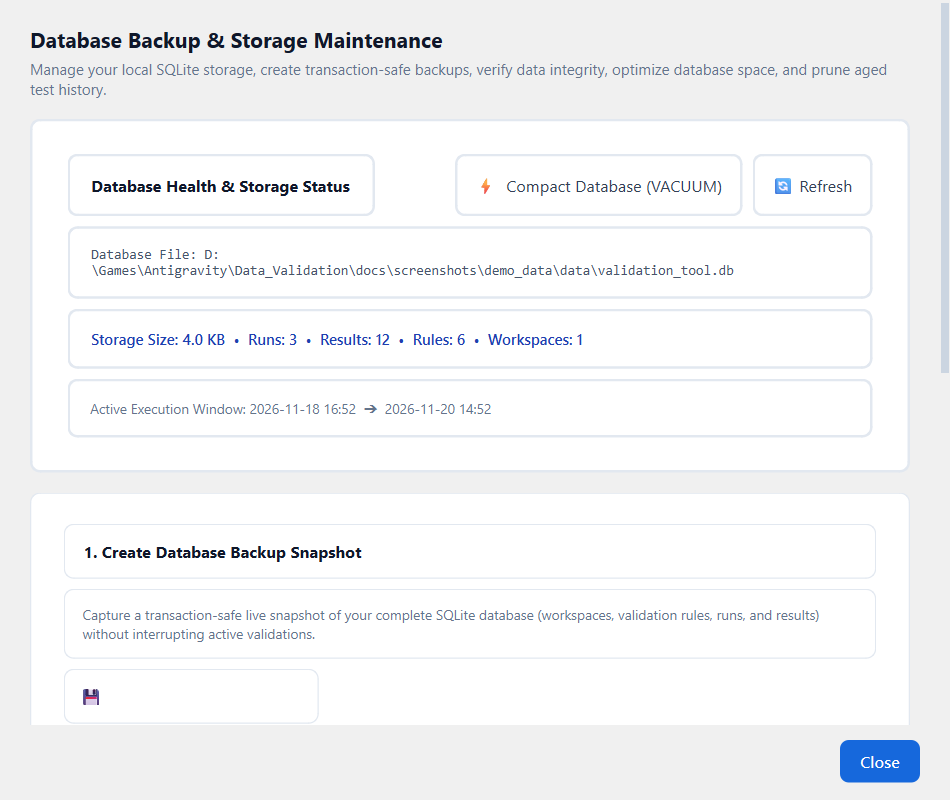
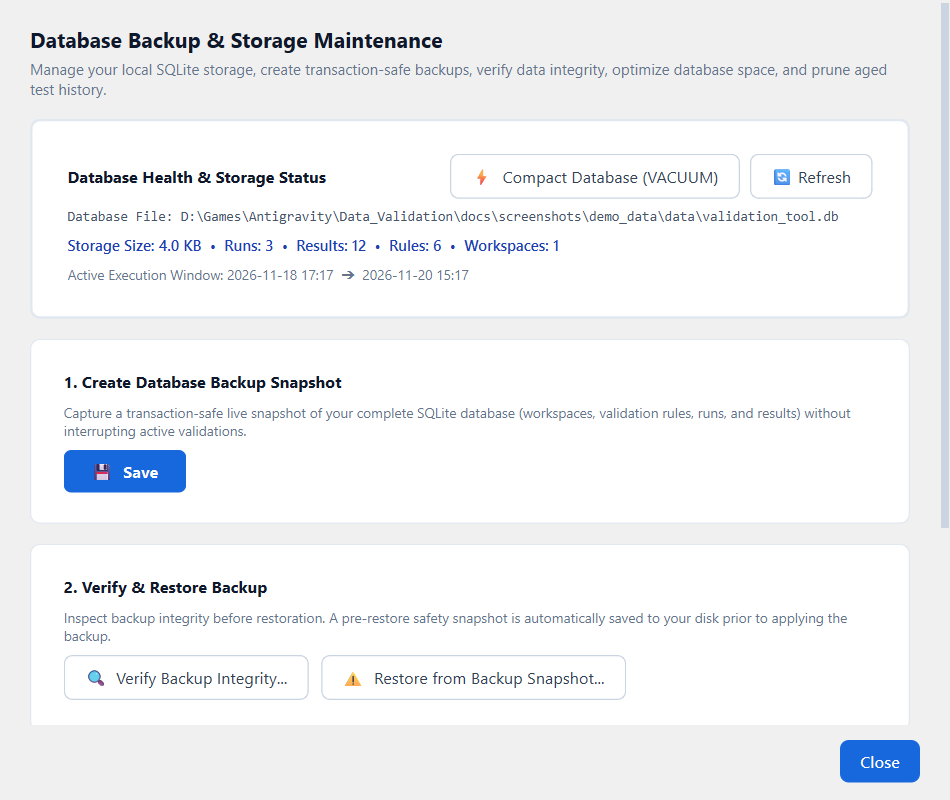
fix(ui): update backup snapshot button to bold Save text and fix card stylesheet cascading

diff --git a/app/ui/dialogs/backup_maintenance_dialog.py b/app/ui/dialogs/backup_maintenance_dialog.py
@@ -89,7 +89,7 @@ class BackupMaintenanceDialog(QDialog):
         self.card_stats = QFrame()
         self.card_stats.setObjectName("Card")
         self.card_stats.setStyleSheet(
-            "background-color: #FFFFFF; border: 1.5px solid #E2E8F0; border-radius: 8px; padding: 14px;"
+            "QFrame#Card { background-color: #FFFFFF; border: 1.5px solid #E2E8F0; border-radius: 8px; padding: 14px; }"
         )
         lay_s = QVBoxLayout(self.card_stats)
         lay_s.setContentsMargins(14, 12, 14, 12)
@@ -138,7 +138,7 @@ class BackupMaintenanceDialog(QDialog):
         box_backup = QFrame()
         box_backup.setObjectName("Card")
         box_backup.setStyleSheet(
-            "background-color: #FFFFFF; border: 1px solid #E2E8F0; border-radius: 8px; padding: 12px;"
+            "QFrame#Card { background-color: #FFFFFF; border: 1px solid #E2E8F0; border-radius: 8px; padding: 12px; }"
         )
         lay_b = QVBoxLayout(box_backup)
         lay_b.setContentsMargins(14, 12, 14, 12)
@@ -156,9 +156,14 @@ class BackupMaintenanceDialog(QDialog):
         lbl_b_d.setWordWrap(True)
         lay_b.addWidget(lbl_b_d)
 
-        btn_backup = QPushButton("💾  Create Database Backup...")
+        btn_backup = QPushButton("💾  Save")
         btn_backup.setObjectName("PrimaryButton")
         btn_backup.setCursor(Qt.CursorShape.PointingHandCursor)
+        btn_backup.setStyleSheet(
+            "QPushButton#PrimaryButton { background-color: #1668DC; color: #FFFFFF; font-weight: 700; "
+            "font-size: 13px; border: none; border-radius: 6px; padding: 8px 22px; } "
+            "QPushButton#PrimaryButton:hover { background-color: #1357BA; }"
+        )
         btn_backup.clicked.connect(self._handle_create_backup)
         lay_b.addWidget(btn_backup, alignment=Qt.AlignmentFlag.AlignLeft)
         layout.addWidget(box_backup)
@@ -167,7 +172,7 @@ class BackupMaintenanceDialog(QDialog):
         box_restore = QFrame()
         box_restore.setObjectName("Card")
         box_restore.setStyleSheet(
-            "background-color: #FFFFFF; border: 1px solid #E2E8F0; border-radius: 8px; padding: 12px;"
+            "QFrame#Card { background-color: #FFFFFF; border: 1px solid #E2E8F0; border-radius: 8px; padding: 12px; }"
         )
         lay_r = QVBoxLayout(box_restore)
         lay_r.setContentsMargins(14, 12, 14, 12)
@@ -208,7 +213,7 @@ class BackupMaintenanceDialog(QDialog):
         box_prune = QFrame()
         box_prune.setObjectName("Card")
         box_prune.setStyleSheet(
-            "background-color: #FFFFFF; border: 1px solid #E2E8F0; border-radius: 8px; padding: 12px;"
+            "QFrame#Card { background-color: #FFFFFF; border: 1px solid #E2E8F0; border-radius: 8px; padding: 12px; }"
         )
         lay_p = QVBoxLayout(box_prune)
         lay_p.setContentsMargins(14, 12, 14, 12)

diff --git a/tests/ui/test_history_ui.py b/tests/ui/test_history_ui.py
@@ -7,7 +7,7 @@ from pathlib import Path
 from unittest.mock import MagicMock
 
 from PySide6.QtCore import Qt
-from PySide6.QtWidgets import QHeaderView
+from PySide6.QtWidgets import QHeaderView, QPushButton
 import pytest
 
 from app.core.status import ValidationStatus
@@ -153,6 +153,12 @@ def test_backup_maintenance_dialog_ui(qtbot, tmp_path):
 
     assert "Database Backup" in dialog.windowTitle()
     assert dialog.spin_retention.value() == 90
+
+    # Verify Save Backup button has bold "Save" text with floppy disk icon
+    save_btns = [btn for btn in dialog.findChildren(QPushButton) if "💾" in btn.text()]
+    assert len(save_btns) == 1
+    assert "Save" in save_btns[0].text()
+    assert "font-weight: 700" in save_btns[0].styleSheet()
 
     db.dispose()
 
